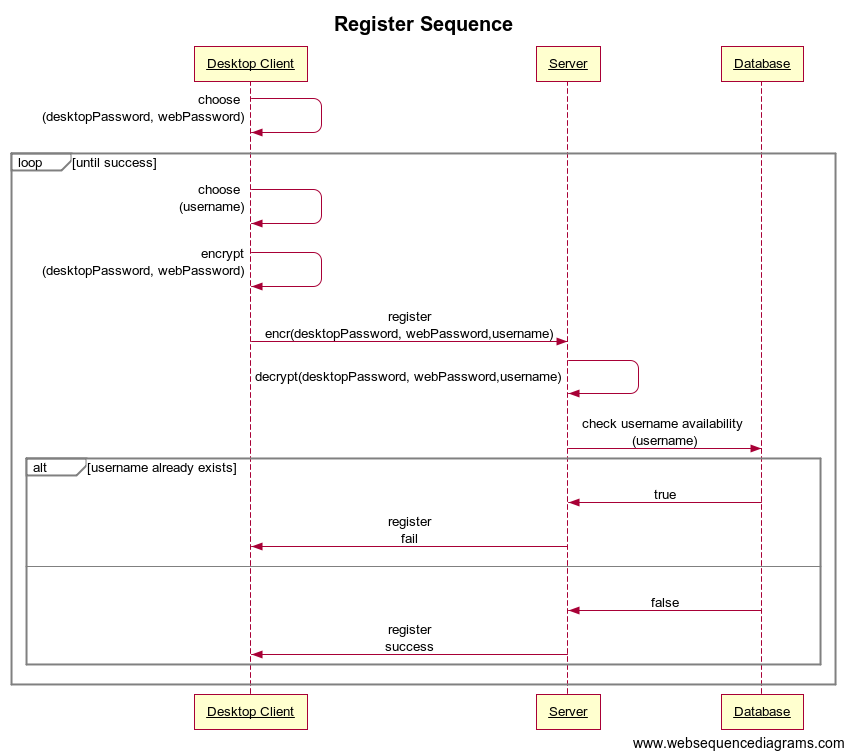
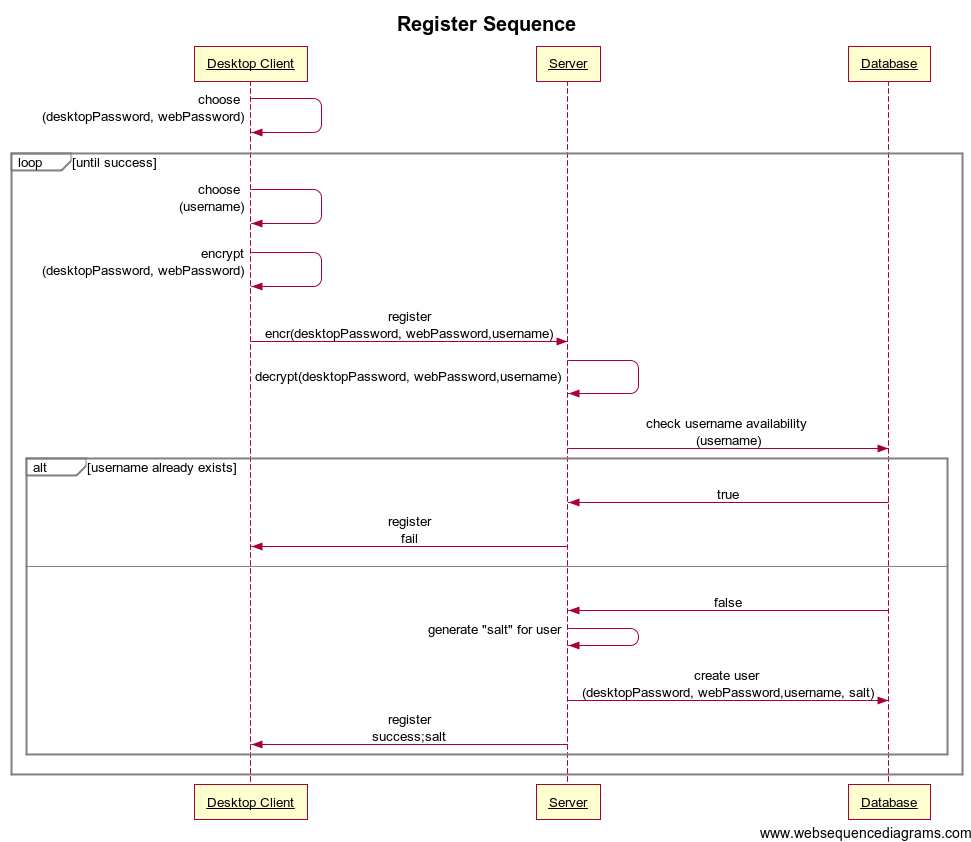
jetzt wird in der registersequenz der user auch in der datenbank angelegt UND der salt wird berechnet und dem user zurückgeliefet

diff --git a/Server/src/main/java/de/hs_mannheim/sit/ss14/MySQLDatabaseConnector.java b/Server/src/main/java/de/hs_mannheim/sit/ss14/MySQLDatabaseConnector.java
@@ -1,21 +1,33 @@
 package de.hs_mannheim.sit.ss14;
+///TODO: decide wicht of the two below !!
+import java.io.IOException;
+import java.io.UnsupportedEncodingException;
+import java.security.NoSuchAlgorithmException;
+import java.security.SecureRandom;
+//import sun.security.provider.SecureRandom;
+///END DECISITON
 import java.sql.Connection;
 import java.sql.DriverManager;
+import java.sql.PreparedStatement;
 import java.sql.ResultSet;
 import java.sql.SQLException;
 import java.sql.Statement;
+
+import sun.misc.BASE64Decoder;
+import sun.misc.BASE64Encoder;
+
 
 public class MySQLDatabaseConnector implements DatabaseConnector{
 
 	private Connection connection;
 	private Hasher hasher;
 
+
 	@Override
 	public void DatabaseConnectior() throws ClassNotFoundException, SQLException {
 		Class.forName( "com.mysql.jdbc.Driver" );
 		connection = DriverManager.getConnection( "jdbc:mysql://localhost:8889/sit", "root", "gargelkarx" );
-
-
+		hasher = new SHA512Hasher();
 	}
 
 	@Override
@@ -30,19 +42,103 @@ public class MySQLDatabaseConnector implements DatabaseConnector{
 		return null;
 	}
 
+
+
 	@Override
 	public boolean createUser(String username, String desktopPassword,
-			String webPassword) {
-		// TODO Auto-generated method stub
-		return false;
+			String webPassword) throws NoSuchAlgorithmException, UnsupportedEncodingException, IOException, SQLException {
+		PreparedStatement ps = null;
+	      try {
+	          if (username!=null&&desktopPassword!=null&&webPassword!=null&&username.length()<=100){
+	              // Uses a secure Random not a simple Random
+	              SecureRandom random = SecureRandom.getInstance("SHA1PRNG");
+	              // Salt generation 64 bits long
+	              byte[] bSalt = new byte[8];
+	              random.nextBytes(bSalt);
+
+	              ///TODO: consider lenght of 8.  any suggestions ? -> note the reason when found!!
+	              // one time password generation 8 bits long
+	              byte[] bOneTimePassword = new byte[1];
+	              random.nextBytes(bOneTimePassword);
+
+	              // Digest computation
+	              byte[] bDesktopPasswordHash = hasher.calculateHash(desktopPassword, bSalt);
+	              String desktopPasswordHash = byteToBase64(bDesktopPasswordHash);
+
+	              byte[] bWebPasswordHash = hasher.calculateHash(desktopPassword, bSalt);
+	              String webPasswordHash = byteToBase64(bDesktopPasswordHash);
+
+	              //make binary salt to String
+	              String salt = byteToBase64(bSalt);
+	              String oneTimePassword = byteToBase64(bOneTimePassword);
+
+	              ps = connection.prepareStatement("INSERT INTO CREDENTIAL (username, desktopPassword, webPassword, salt, oneTimePassword) VALUES (?,?,?,?,?)");
+	              ps.setString(1,username);
+	              ps.setString(2,desktopPasswordHash);
+	              ps.setString(3,webPasswordHash);
+	              ps.setString(4,salt);
+	              ps.setString(5,oneTimePassword);
+	              ps.executeUpdate();
+	              return true;
+	          } else {
+	              return false;
+	          }
+	      } finally {
+	          close(ps);
+	      }
 	}
 
 	@Override
-	public void createDatabaseStructure() throws SQLException{
+	public void deleteUser(String username) throws SQLException{
 	      Statement st = null;
 	      try {
 	          st = connection.createStatement();
-	          st.execute("CREATE TABLE CREDENTIAL (username VARCHAR(100) PRIMARY KEY, desktopPassword VARCHAR(256) NOT NULL, webPassword VARCHAR(256) NOT NULL, salt VARCHAR(256) NOT NULL, oneTimePassword VARCHAR(30),)");
+	          try {
+				st.execute("DELETE FROM `sit`.`CREDENTIAL` WHERE `CREDENTIAL`.`username` = \'"+username+"\'");
+				System.out.println("Löschen des usernamen "+username+" erfolgreich!");
+	          } catch (SQLException e) {
+				System.out.println("Fehler beim Löschen des usernamen "+username+"!");
+
+				e.printStackTrace();
+			}
+	      } finally {
+	          close(st);
+	      }
+	  }
+
+
+
+	@Override
+	public void createTableStructure() throws SQLException{
+	      Statement st = null;
+	      try {
+	          st = connection.createStatement();
+	          try {
+				st.execute("CREATE TABLE CREDENTIAL (username VARCHAR(100) PRIMARY KEY, desktopPassword VARCHAR(256) NOT NULL, webPassword VARCHAR(256) NOT NULL, salt VARCHAR(256) NOT NULL, oneTimePassword VARCHAR(30))");
+				System.out.println("Anlegen der CREDENTIAL Tabelle erfolgreich!");
+	          } catch (SQLException e) {
+				System.out.println("Fehler beim Anlegen der CREDENTIAL Tabelle!");
+
+				e.printStackTrace();
+			}
+	      } finally {
+	          close(st);
+	      }
+	  }
+
+	@Override
+	public void deleteTableStructure() throws SQLException{
+	      Statement st = null;
+	      try {
+	          st = connection.createStatement();
+	          try {
+				st.execute("DROP TABLE CREDENTIAL");
+				System.out.println("Löschen der CREDENTIAL Tabelle erfolgreich!");
+	          } catch (SQLException e) {
+				System.out.println("Fehler bein Löschen der CREDENTIAL Tabelle!");
+
+				e.printStackTrace();
+			}
 	      } finally {
 	          close(st);
 	      }
@@ -72,6 +168,28 @@ public class MySQLDatabaseConnector implements DatabaseConnector{
 	          } catch (SQLException ignore) {
 	          }
 	      }
+	  }
+
+	  /**
+	   * From a base 64 representation, returns the corresponding byte[]
+	   * @param data String The base64 representation
+	   * @return byte[]
+	   * @throws IOException
+	   */
+	  public static byte[] base64ToByte(String data) throws IOException {
+	      BASE64Decoder decoder = new BASE64Decoder();
+	      return decoder.decodeBuffer(data);
+	  }
+
+	  /**
+	   * From a byte[] returns a base 64 representation
+	   * @param data byte[]
+	   * @return String
+	   * @throws IOException
+	   */
+	  public static String byteToBase64(byte[] data){
+	      BASE64Encoder endecoder = new BASE64Encoder();
+	      return endecoder.encode(data);
 	  }
 
 

diff --git a/Server/src/main/java/de/hs_mannheim/sit/ss14/SHA512Hasher.java b/Server/src/main/java/de/hs_mannheim/sit/ss14/SHA512Hasher.java
@@ -8,24 +8,28 @@ import java.security.NoSuchAlgorithmException;
 import sun.misc.BASE64Decoder;
 import sun.misc.BASE64Encoder;
 
-/**
- *
- * @author Phil-Patrick Kai Kwiotek
- *
- */
+
 public class SHA512Hasher implements Hasher{
 	static int ITERATION_NUMBER = 1000; //Empfehlung am 1000
+
+	/**
+	 * A SHA-512 algorithm to hash a pw with a salt 1000 times
+	 * @password the password to hash
+	 * @salt the salt added to the password
+	 * @author Phil-Patrick Kai Kwiotek
+	 *
+	 */
 	@Override
-	public byte[] calculateHash(String password, byte[] salt) throws NoSuchAlgorithmException, UnsupportedEncodingException {
+	public String calculateHash(String password, String salt) throws NoSuchAlgorithmException, IOException {
 		MessageDigest digest = MessageDigest.getInstance("SHA-512");
 	      digest.reset();
-	      digest.update(salt);
+	      digest.update(base64ToByte(salt));
 	      byte[] input = digest.digest(password.getBytes("UTF-8"));
 	      for (int i = 0; i < ITERATION_NUMBER; i++) {
 	          digest.reset();
 	          input = digest.digest(input);
 	      }
-	      return input;
+	      return byteToBase64(input);
 	}
 
 	  /**
@@ -50,4 +54,14 @@ public class SHA512Hasher implements Hasher{
 	      return endecoder.encode(data);
 	  }
 
+
+	  /**
+	   * use "String calculateHash(String,String)" with byte[]
+	   */
+	  @Override
+	  public byte[] calculateHash(String desktopPassword, byte[] salt) throws NoSuchAlgorithmException, UnsupportedEncodingException, IOException {
+	  	return base64ToByte(calculateHash(desktopPassword, byteToBase64(salt)));
+	  }
 }
+
+

diff --git a/Server/src/main/java/de/hs_mannheim/sit/ss14/DatabaseConnector.java b/Server/src/main/java/de/hs_mannheim/sit/ss14/DatabaseConnector.java
@@ -1,5 +1,8 @@
 package de.hs_mannheim.sit.ss14;
 
+import java.io.IOException;
+import java.io.UnsupportedEncodingException;
+import java.security.NoSuchAlgorithmException;
 import java.sql.SQLException;
 
 /**
@@ -15,7 +18,11 @@ public interface DatabaseConnector {
 
 	public User checkDesktopPassword(String password, String username);
 
-	public boolean createUser(String username, String desktopPassword, String webPassword);
+	public boolean createUser(String username, String desktopPassword, String webPassword) throws NoSuchAlgorithmException, UnsupportedEncodingException, IOException, SQLException;
 
-	public void createDatabaseStructure() throws SQLException;
+	public void createTableStructure() throws SQLException;
+
+	void deleteTableStructure() throws SQLException;
+
+	void deleteUser(String username) throws SQLException;
 }

diff --git a/Server/src/main/java/de/hs_mannheim/sit/ss14/Hasher.java b/Server/src/main/java/de/hs_mannheim/sit/ss14/Hasher.java
@@ -1,5 +1,6 @@
 package de.hs_mannheim.sit.ss14;
 
+import java.io.IOException;
 import java.io.UnsupportedEncodingException;
 import java.security.NoSuchAlgorithmException;
 
@@ -19,6 +20,9 @@ public interface Hasher {
 	 * @return salted 512Bit hash
 	 * @throws NoSuchAlgorithmException
 	 * @throws UnsupportedEncodingException
+	 * @throws IOException
 	 */
-	byte[] calculateHash(String password, byte[] salt) throws NoSuchAlgorithmException, UnsupportedEncodingException;
+	String calculateHash(String password, String salt) throws NoSuchAlgorithmException, UnsupportedEncodingException, IOException;
+
+	byte[] calculateHash(String desktopPassword, byte[] bSalt) throws NoSuchAlgorithmException, UnsupportedEncodingException, IOException;
 }
